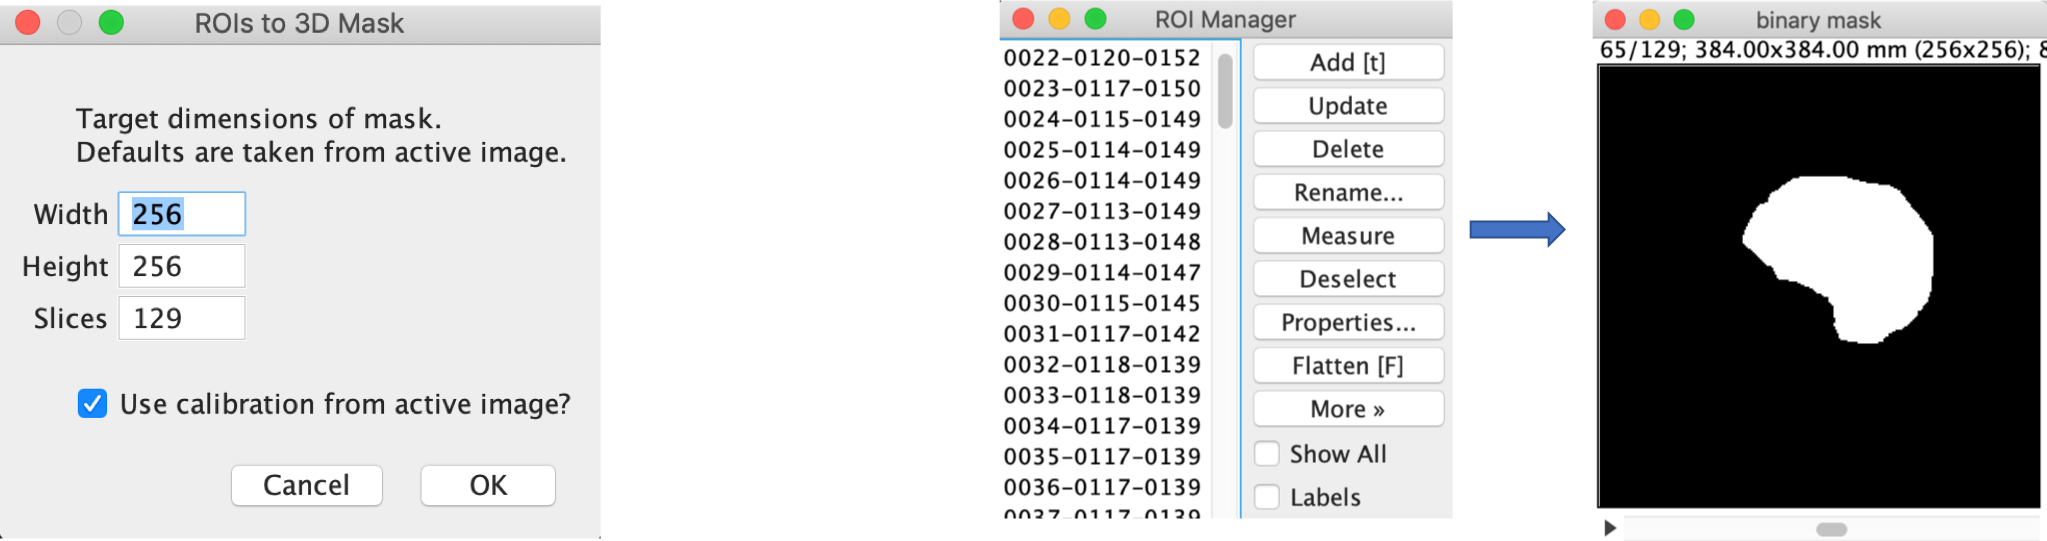
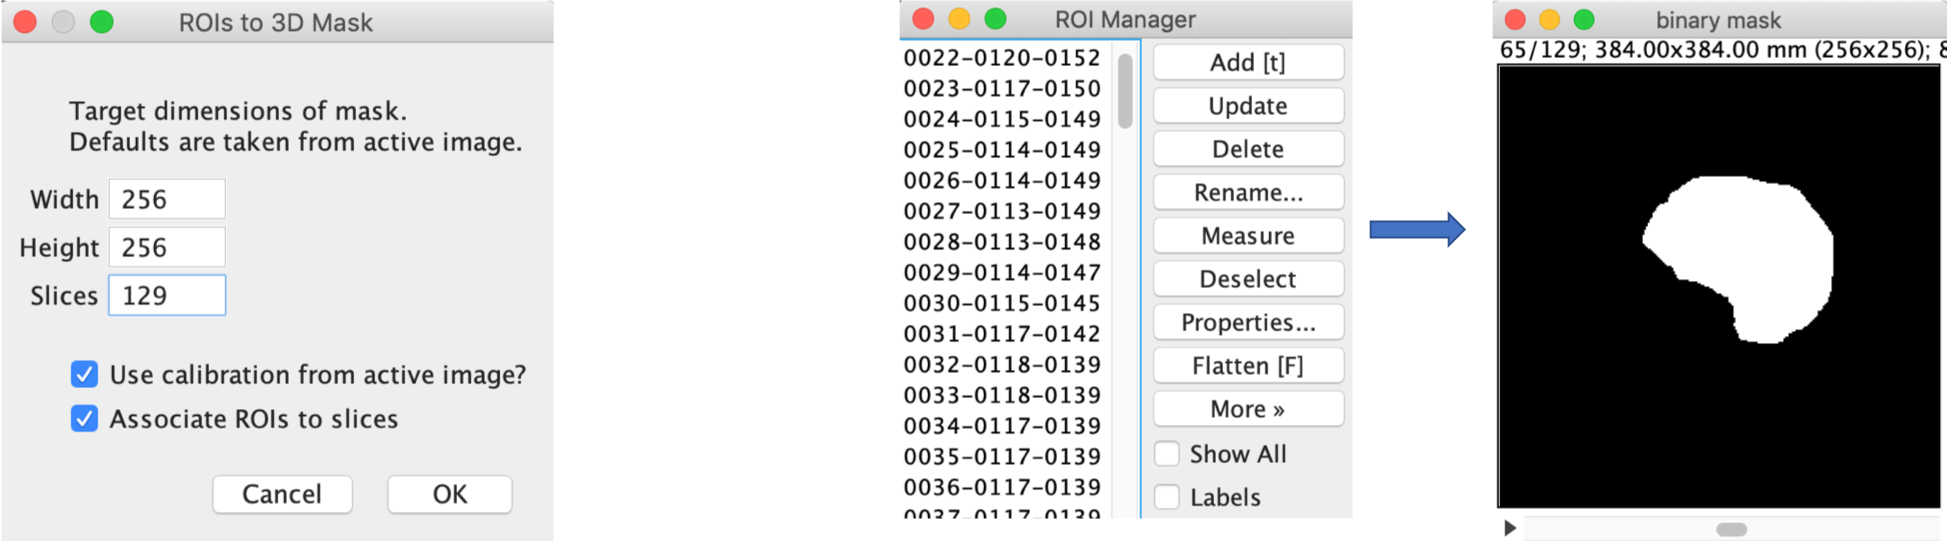
updated Rois2Mask: option to yes/no associate rois with slices. some refactoring. some minor things as well.

diff --git a/src/main/java/de/mpicbg/scf/segtools/Conversions.java b/src/main/java/de/mpicbg/scf/segtools/Conversions.java
@@ -26,10 +26,11 @@ public class Conversions {
      *
      * @param rm  roi manager with rois
      * @param imp sets the target size of mask.
+     * @param associate if true the ROIs are only drawn in the associated slices, otherwise they are drawn in all slices.
      * @return mask. 8 bit binary mask with foreground (=roi regions) value 255, background=0.
      * mask is calibrated like imp.
      */
-    static public ImagePlus BinaryMaskFromRois(RoiManager rm, ImagePlus imp) {
+    static public ImagePlus BinaryMaskFromRois(RoiManager rm, ImagePlus imp, boolean associate) {
         ImagePlus mask = IJ.createImage("binary mask", "8-bit black", imp.getWidth(), imp.getHeight(), imp.getNSlices());
         mask.setCalibration(imp.getCalibration());
 
@@ -37,16 +38,8 @@ public class Conversions {
 
         for (int idx = 0; idx < numrois; idx++) {
             Roi roi = rm.getRoi(idx);
-            int slice = roi.getZPosition();
-            if (imp.getNSlices() > 1 && slice == 0) {
-                IJ.log("Warning: Roi " + idx + " is not associated to a specific slice. Skipping");
-                continue;
-            }
 
-            mask.setSliceWithoutUpdate(slice);
-            ImageProcessor maskip = mask.getProcessor();
-            maskip.setValue(255);
-            maskip.fill(roi);
+            UpdateMask(mask,roi,associate,idx);
         }
 
         mask.setSlice(1);
@@ -58,9 +51,10 @@ public class Conversions {
      *
      * @param rm     roi manager with rois
      * @param width, height, nslices: target dimensions
+     * @param associate if true the ROIs are only drawn in the associated slices, otherwise they are drawn in all slices.
      * @return mask. 8 bit binary mask with foreground (=roi regions) value 255, background=0. uncalibrated.
      */
-    static public ImagePlus BinaryMaskFromRois(RoiManager rm, int width, int height, int nslices) {
+    static public ImagePlus BinaryMaskFromRois(RoiManager rm, int width, int height, int nslices, boolean associate) {
 
         if (width < 1 || height < 1 || nslices < 1) {
             IJ.log("Target size for mask is zero or negative! Returning null");
@@ -73,21 +67,16 @@ public class Conversions {
 
         for (int idx = 0; idx < numrois; idx++) {
             Roi roi = rm.getRoi(idx);
-            int slice = roi.getZPosition();
-            if (nslices > 1 && slice == 0) {
-                IJ.log("Warning: Roi " + idx + " is not associated to a specific slice. Skipping");
-                continue;
-            }
 
-            mask.setSliceWithoutUpdate(slice);
-            ImageProcessor maskip = mask.getProcessor();
-            maskip.setValue(255);
-            maskip.fill(roi);
+            UpdateMask(mask, roi, associate, idx);
+
         }
 
         mask.setSlice(1);
         return mask;
     }
+
+
 
     /**
      * Creates a binary image mask of all roi's in the roi array. Works in 2D & 3D.
@@ -95,9 +84,10 @@ public class Conversions {
      *
      * @param roiarray Array of rois
      * @param width,   height, nslices: target dimensions
+     * @param associate if true the ROIs are only drawn in the associated slices, otherwise they are drawn in all slices.
      * @return mask. 8 bit binary mask with foreground (=roi regions) value 255, background=0. uncalibrated
      */
-    static public ImagePlus BinaryMaskFromRois(Roi[] roiarray, int width, int height, int nslices) {
+    static public ImagePlus BinaryMaskFromRois(Roi[] roiarray, int width, int height, int nslices, boolean associate) {
 
         if (width < 1 || height < 1 || nslices < 1) {
             IJ.log("Target size for mask is zero or negative! Returning null");
@@ -110,16 +100,8 @@ public class Conversions {
 
         for (int idx = 0; idx < numrois; idx++) {
             Roi roi = roiarray[idx];
-            int slice = roi.getZPosition();
-            if (nslices > 1 && slice == 0) {
-                IJ.log("Warning: Roi " + idx + " is not associated to a specific slice. Skipping");
-                continue;
-            }
 
-            mask.setSliceWithoutUpdate(slice);
-            ImageProcessor maskip = mask.getProcessor();
-            maskip.setValue(255);
-            maskip.fill(roi);
+            UpdateMask(mask, roi, associate, idx);
         }
 
         mask.setSlice(1);
@@ -132,10 +114,11 @@ public class Conversions {
      *
      * @param roiarray Array of rois
      * @param imp:     sets target dimensions of mask
+     * @param associate if true the ROIs are only drawn in the associated slices, otherwise they are drawn in all slices.
      * @return mask. 8 bit binary mask with foreground (=roi regions) value 255, background=0.
      * mask is calibrated like imp.
      */
-    static public ImagePlus BinaryMaskFromRois(Roi[] roiarray, ImagePlus imp) {
+    static public ImagePlus BinaryMaskFromRois(Roi[] roiarray, ImagePlus imp, boolean associate) {
 
         ImagePlus mask = IJ.createImage("binary mask", "8-bit black", imp.getWidth(), imp.getHeight(), imp.getNSlices());
         mask.setCalibration(imp.getCalibration());
@@ -144,20 +127,48 @@ public class Conversions {
 
         for (int idx = 0; idx < numrois; idx++) {
             Roi roi = roiarray[idx];
-            int slice = roi.getZPosition();
-            if (imp.getNSlices() > 1 && slice == 0) {
-                IJ.log("Warning: Roi " + idx + " is not associated to a specific slice. Skipping");
-                continue;
-            }
 
-            mask.setSliceWithoutUpdate(slice);
-            ImageProcessor maskip = mask.getProcessor();
-            maskip.setValue(255);
-            maskip.fill(roi);
+            UpdateMask(mask, roi, associate, idx);
         }
 
         mask.setSlice(1);
         return mask;
+    }
+
+
+    /** Helper for the the BinaryMaskFromROIs function family. Draws a single roi.
+     */
+    private static void UpdateMask(ImagePlus mask, final Roi roi, final boolean associate, final int idx) {
+
+        int nslices=mask.getNSlices();
+
+        int roislice = roi.getZPosition();
+
+        // check if roi has an associated slice
+        boolean associateThisRoi=associate;
+        if (associate && nslices > 1 && roislice == 0) {
+            IJ.log("Warning: Roi " + idx + " is not associated to a specific slice. Drawing into all slices");
+            associateThisRoi=false;
+        }
+
+        // draw roi into single slice
+        if (associateThisRoi) {
+            if (roislice<=nslices){
+                mask.setSliceWithoutUpdate(roislice);
+                ImageProcessor maskip = mask.getProcessor();
+                maskip.setValue(255);
+                maskip.fill(roi);
+            }
+        }
+        else {
+            // draw into all slices
+            for (int sliceid = 1; sliceid < 1+nslices; sliceid++) {
+                mask.setSlice(sliceid);
+                ImageProcessor maskip = mask.getProcessor();
+                maskip.setValue(255);
+                maskip.fill(roi);
+            }
+        }
     }
 
     /**

diff --git a/src/main/java/de/mpicbg/scf/segtools/RoisToMask3DPlugin.java b/src/main/java/de/mpicbg/scf/segtools/RoisToMask3DPlugin.java
@@ -7,6 +7,8 @@ import ij.plugin.frame.RoiManager;
 import org.scijava.command.Command;
 import org.scijava.plugin.Plugin;
 
+import java.io.File;
+
 /*
  * Author: Noreen Walker, Scientific Computing Facility, MPI-CBG
  * Date: 2019-10
@@ -32,7 +34,7 @@ public class RoisToMask3DPlugin implements Command {
         RoiManager rm = RoiManager.getRoiManager();
 
         // for development only
-       /*if (new File("src/main/resources/RoiSet.zip").exists()) {
+      /* if (new File("src/main/resources/RoiSet.zip").exists()) {
             rm.runCommand("Open", "src/main/resources/RoiSet.zip");
         }*/
 
@@ -61,6 +63,7 @@ public class RoisToMask3DPlugin implements Command {
         gd.addNumericField("Height", height, 0);
         gd.addNumericField("Slices", nslices, 0);
         gd.addCheckbox("Use calibration from active image?", true);
+        gd.addCheckbox("Associate ROIs to slices",true);
         gd.showDialog();
 
         if (gd.wasCanceled()) {
@@ -71,9 +74,10 @@ public class RoisToMask3DPlugin implements Command {
         height= (int) gd.getNextNumber();
         nslices=(int) gd.getNextNumber();
         boolean useCalib=gd.getNextBoolean();
+        boolean associate=gd.getNextBoolean();
 
         // create binary mask
-        ImagePlus mask = Conversions.BinaryMaskFromRois(rm,width,height,nslices);
+        ImagePlus mask = Conversions.BinaryMaskFromRois(rm,width,height,nslices, associate);
 
         if (useCalib && (imp!=null)) {
             mask.setCalibration(imp.getCalibration());

diff --git a/src/main/java/de/mpicbg/scf/segtools/Main.java b/src/main/java/de/mpicbg/scf/segtools/Main.java
@@ -33,11 +33,12 @@ public class Main {
 
         // invoke the plugin (IJ2 style)
         // automatize input for all @Parameters
-        Map<String, Object> map = new HashMap<>();
-        map.put("segImp", labels);
-        map.put("imp", imp);
+   /*     Map<String, Object> map = new HashMap<>();
+          map.put("segImp", labels);
+          map.put("imp", imp);
 
-        ij.command().run(Create3DOverlayPlugin.class, true, map);
+        ij.command().run(Create3DOverlayPlugin.class, true, map);*/
+        ij.command().run(RoisToMask3DPlugin.class, true);
     }
 
 

diff --git a/src/main/java/de/mpicbg/scf/segtools/Manual3DSegmentationPlugin.java b/src/main/java/de/mpicbg/scf/segtools/Manual3DSegmentationPlugin.java
@@ -81,7 +81,7 @@ public class Manual3DSegmentationPlugin implements Command {
         // process the ROIs from the roi manager
 
         // create binary mask
-        ImagePlus mask = Conversions.BinaryMaskFromRois(rm, imp);
+        ImagePlus mask = Conversions.BinaryMaskFromRois(rm, imp, true);
         mask.show();
 
         // overlay on original image

diff --git a/src/main/java/de/mpicbg/scf/segtools/Create3DOverlayPlugin.java b/src/main/java/de/mpicbg/scf/segtools/Create3DOverlayPlugin.java
@@ -83,7 +83,6 @@ public class Create3DOverlayPlugin implements Command {
         Color[] colors = new Color[count];
 
         if (colorStr.equals("red")) {
-            System.out.println("red here");
             Arrays.fill(colors,Color.red);
         }
         else if (colorStr.equals("cyan")) {

diff --git a/Readme.md b/Readme.md
@@ -19,23 +19,23 @@
 ## About
 
 Segtools is a collection of small utility plugins for 3D segmentation in ImageJ/Fiji. They provide functionality for:
-* [Semi-manual segmentation (3D)](#semi-manual-segmentation-(3D))
-* [Conversion of ROI in the ROI manager to a 3D binary mask](#Mask-(3D)-to-ROI-Manager-ROIs)
-* [Back-conversion from a 3D binary mask to a list of ROIs in the ROI manager](#ROI-Manager-ROIs-to-Mask-(3D))
-* [Visualization of a segmentation as image overlay](#Create-Overlay-of-Segmentation-(3D))
+* Semi-manual segmentation (3D)
+* Conversion of ROI in the ROI manager to a 3D binary mask
+* Back-conversion from a 3D binary mask to a list of ROIs in the ROI manager
+* Visualization of a 3D segmentation as image overlay
 
 
-The plugins are developed at the [**Scientific Computing Facility of the MPI-CBG Dresden**](https://www.mpi-cbg.de/services-facilities/core-facilities/scientific-computing-facility/service-portfolio-overview/).
+The plugins are being developed at the [**Scientific Computing Facility of the MPI-CBG Dresden**](https://www.mpi-cbg.de/services-facilities/core-facilities/scientific-computing-facility/service-portfolio-overview/).
 
 ## Installation
 * **SegTools** is distributed via an **Update site** in **Fiji**. To add it, open Fiji, then click the Menu `Help > Update ..., then XXXX TODO`. Then restart Fiji.
-* Some of the plugins depend on the [**MorpholibJ**](https://imagej.net/MorphoLibJ) library. Add MorpholibJ update site to your Fiji: `Help > Update ... > ` select `IJPB-plugins > Close > Apply Changes`. Then restart Fiji.
+* Some of the plugins depend on the [**MorpholibJ**](https://imagej.net/MorphoLibJ) library. To add this library to your Fiji: Click `Help > Update ... > ` select `IJPB-plugins > Close > Apply Changes`. Then restart Fiji.
 * For general instructions on how to follow an update site, check [here](https://imagej.net/Following_an_update_site).
 
 
 
 
-## Descriptions of plugins
+## Plugin Descriptions
 
 ### Semi-manual Segmentation (3D)
 Menu path: `Plugins > SegTools > Semi-manual Segmentation (3D)`
@@ -65,6 +65,7 @@ Press `OK` to finish, and the plugin creates a **3D binary mask** and, if chosen
 
 ![result](imgs/plugin_semimanual_merge_results.png "3D visualization done with Fiji plugin 3D viewer.")
 
+<br/>
 
 ### Mask (3D) to ROI Manager ROIs
 Menu path: `Plugins > SegTools > Mask (3D) to ROI Manager ROIs`
@@ -72,6 +73,8 @@ Menu path: `Plugins > SegTools > Mask (3D) to ROI Manager ROIs`
 This plugin converts a binary 3D (or 2D) mask into a list of ROIs in the ROI manager. The ROIs are associated with slices. The ROI manager is cleared before adding the new ROIs.
 
 ![mask2roi](imgs/plugin_mask2roi_merge_withbackgroundbox.png)
+
+<br/>
 
 
 ### ROI Manager ROIs to Mask (3D)
@@ -85,12 +88,14 @@ Create one or more ROIs and add to the ROI Manager. In 3D, ROIs are typically as
 GUI options:
 * **Target dimensions**: Size of the mask that will be created. Should be the same size as the grayscale image to which the mask belongs. If an image is open, the default size is taken from the active image.
 * **Use calibration from active image**: If checked, then copies the calibration information from the current active image.
-* **TODO** **Associate ROIs to slices** If checked, then each ROI is drawn into its associated slice, otherwise it is drawn into all slices.<br/>
+* **Associate ROIs to slices**: If checked, then each ROI is drawn into its associated slice, otherwise it is drawn into all slices.<br/>
 Examples:
 	* Keep checked if the ROIs correspond to an actual 3D shape.
 	* Uncheck if you want to repeat a single ROI in all slices.
 
 ![mask2roi](imgs/plugin_roi2mask_merge.png)
+
+<br/>
 
 ### Create Overlay of Segmentation (3D)
 Menu path: `Plugins > SegTools > Create Overlay of Segmentation (3D)`
@@ -124,7 +129,7 @@ run("ROIManager ROIs to Mask (3D)", "width=256 height=256 slices=129 use");
 TODO: Create overlay is not macro-recordable! Nor is the semi-manual segmentation (but less important)
 
 
-#### Scripting languages
+#### Scripting languages TODO more examples
 The plugins can be recorded similar to the macro language. But for scripting languages it can be more useful to directly use the Conversions [TODO link] class (a collection of static utility functions) to convert between ROIs and binary masks.
 ```python
 from ij import IJ 
@@ -134,6 +139,3 @@ mask=IJ.getImage(); # binary mask
 
 roiArray=Conversions.RoisFromBinaryMask(mask) # array of rois
 ```
-
-## License
-TODO
